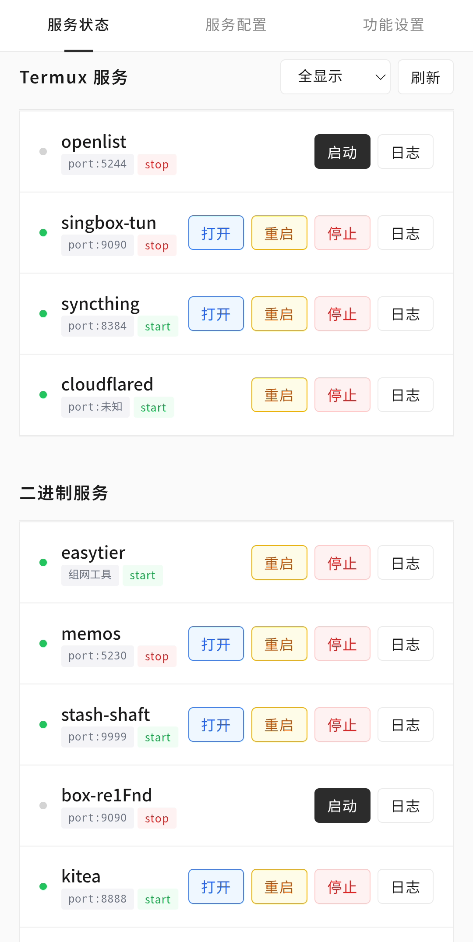
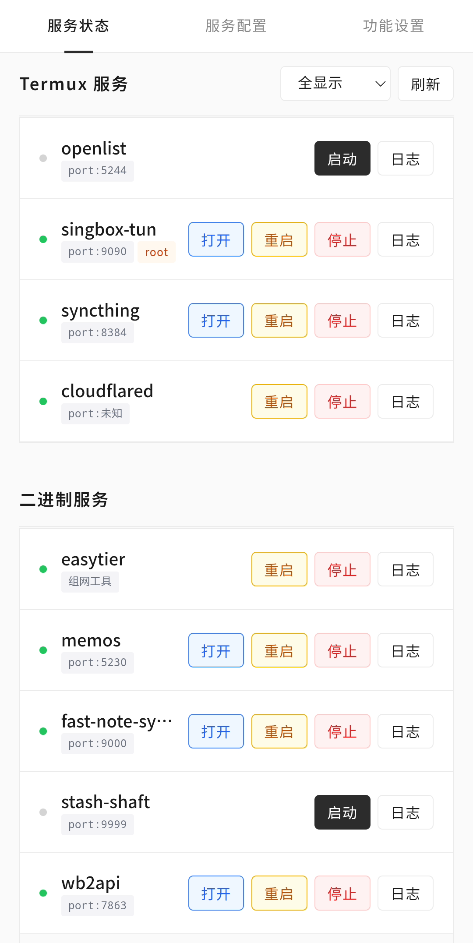
docs: 更新文档

diff --git a/README.md b/README.md
@@ -1,5 +1,6 @@
 <div align="center">
-<img src="docs/images/icon.png" width="200"alt="Icon"/>
+<img src="docs/images/icon.png" width="150"alt="Icon"/>
+<h1>SvcHub</h1>
   <p>
     <b>一个 Termux / 二进制服务启动和保活的管理模块，支持WebUI 聚合管理</b>
   </p>
@@ -27,37 +28,36 @@
   </p>
 </div>
 
-## 功能概览
-> 初衷就是为了裸核运行一些服务，省的一个服务装一个模块，聚合管理服务
+## 界面概览
+> 初衷就是为了裸核运行一些服务，省的一个服务装一个模块，聚合管理服务，若你觉得好用，欢迎给仓库来个 Star ⭐~ 
 <div align="center">
 
 | 服务状态 | 服务配置 | 功能设置|
 |---------|---------|---------|
-| ![服务状态](docs/images/01-status.png) | ![服务配置](docs/images/02-services.png ) |![功能设置](docs/images/03-settings.png)|
-| 命令执行/启停服务 | 服务日志页 | 网页登录页|
-| ![命令执行/启停服务](docs/images/04-start_stop.png) | ![服务日志页](docs/images/05-log.png ) |![网页登录页](docs/images/06-login.png)|
+| ![服务状态](docs/images/01-status.png) | ![服务配置](docs/images/02-config.png ) |![功能设置](docs/images/03-settings.png)|
+| 启停功能 | 服务日志页 | 网页登录页|
+| ![启停功能](docs/images/04-start_stop.png) | ![服务日志页](docs/images/05-log.png ) |![网页登录页](docs/images/06-login.png)|
 </div>
+
+## 快速开始
+
+1. [Releases](https://github.com/LimpidMo/SvcHub/releases/) 中下载模块 ZIP
+2. 在 Root 管理器中 → 模块 → 从本地安装，选择对应 ZIP 文件刷入
+3. 音量键可选是否挂载 dns 解析配置，默认不挂载
+4. 安装完成后重启设备，若升级时会自动保留已有配置。
+5. 在 KernelSU 或 Apatch 等管理器 → 模块 →  点击打开 SvcHub → 进入 WebUI。页面可左右滑动查看，
+> Magisk 用户无 Webui 开启外部访问（默认开启），访问 http://127.0.0.1:5555 默认密码 admin 即可
+
+## 功能介绍
 
 ### 两类服务
 
 | | Termux 服务 | 二进制服务 |
 |---|---|---|
 | 运行环境 |  Termux 环境 | 系统 root 环境 |
+| 运行身份 | Termux 用户，可单独开启「root 运行」 | root 用户 |
 | 工作目录 | `/data/data/com.termux/files/home` | 可配置，默认 `/data/media/0/Server` |
-| 附加参数 | 默认无，可设如 `-g 3003` 网络权限，`-u 10123` 指定用户运行仅对用户、权限敏感程序配置使用 | 同上 |
 >注：启动 Termux 中的服务不会启动 Termux 后台，无需自启动软件挂后台
-
-
-### 巡检保活
-
-每隔固定间隔，默认 60 秒执行一次巡检（可配置 10~86400 秒，高于60则分片休眠，以保证配置热更新和功能检查）：
-- 开机后自动启动带有 start 绿色标签的服务，即开启“自动启动 & 保活”的服务
-- 每次巡检检查 start 标签的服务，
-  - 如未启动或已被系统杀死则重新启动服务，
-  - 不会杀死已启动的 stop 标签服务，以便满足临时手动启动服务后被误杀
-- 更改检查间隔时间后，一分钟内生效，并打断原有间隔，即时生效新间隔。
-- 若服务日志超过 1MB 轮转保留最近1/4，保持近期日志上下文的同时避免日志无限增长
-- 若启停功能开启，执行启停功能检查
 
 ### 启停功能
 >**优先级**：功能全开时（但不推荐），定时启停> 亮屏启停> Wi-Fi 启停>普通巡检
@@ -73,14 +73,22 @@
 
 >注：本模块不做 WakeLock 唤醒锁，应设备而异可能应锁屏 Doze 策略，导致推迟至亮屏才响应该功能恢复巡检，但这一般影响日常使用体验
 
-## WebUI 使用
+### 巡检保活
 
-在 KernelSU 或 Apatch 等管理器 → 模块 →  点击打开 SvcHub → 进入 WebUI。页面可左右滑动查看，
->Magisk 用户无Webui 开启外部访问（默认开启），访问 http://127.0.0.1:5555 默认密码 admin 即可
+每隔固定间隔，默认 60 秒执行一次巡检（可配置 10~86400 秒，高于60则分片休眠，以保证配置热更新和功能检查）：
+- 开机后自动启动带有 start 绿色标签的服务，即开启“自动启动 & 保活”的服务
+- 每次巡检检查 start 标签的服务，
+  - 如未启动或已被系统杀死则重新启动服务，
+  - 不会杀死已启动的 stop 标签服务，以便满足临时手动启动服务后被误杀
+- 更改检查间隔时间后，一分钟内生效，并打断原有间隔，即时生效新间隔。
+- 若服务日志超过 1MB 轮转保留最近1/4，保持近期日志上下文的同时避免日志无限增长
+- 若启停功能开启，执行启停功能检查
+
 
 ## 服务配置示例
 
 ### Termux 服务配置
+
 以 OpenList 为例，Termux 服务默认工作目录 `/data/data/com.termux/files/home`：
 - 方案1：**在 Termux 怎么启动就怎么填**
   - openlist 则直接填写`openlist server`，跟在 termux 中启动 openlist 相同,
@@ -90,8 +98,8 @@
 - 端口填写 5244 ,启动后即可打开所对应服务页。
 - 若是首次启动 openlist 记得去日志中查看登录密码 passowrd 字段
 
-
 ### 二进制服务配置
+
 以 [Memos](https://github.com/usememos/memos) 为例，二进制服务默认工作目录 `/data/media/0/Server`，即外部存储目录 `/storage/emulated/0/Server`：
 - 在`Server` 文件夹加下创建个`memos`文件夹，将下载的`memos_0.xx.0_linux_arm64.tar.gz`解压获得可执行的`memos`放入该文件夹内
 - 相关二进制文件已设置可执行权限（`chmod +x ./memos`）即将文件设权限为`755`，本模块不提供对二进制文件权限修改，请自行处理。并将依赖的库文件和相关资源文件与二进制放在同一目录
@@ -99,7 +107,6 @@
 - memos 启动后默认端口 8081 ，也可以加`--port 5230`指定端口 5230 ，其他参数请看官方文档。将8081填入端口输入框中即可在服务页打开跳转
 
 ## 本地开发与模块构建
-
 
 ### 本地开发联调
 
@@ -116,7 +123,7 @@ node tools/mock-server.js reflash  # 改脚本后热更新文件
   - 冷启动可带参数： `node tools/mock-server.js --wifi on --ssid Home`
 - 亮屏锁屏模拟：`curl "http://127.0.0.1:8090/__screen?screen=off&lock=lock"` 
   - 其参数还可为`screen=on&lock=lock`亮屏未解锁或`screen=on&lock=unlock` 亮屏已解锁
-- shell命令依赖 Git Bash（mock-server 自动探测安装路径，尽量配置系统环境变量）
+- shell 命令依赖 Git Bash（mock-server 自动探测安装路径，尽量配置系统环境变量）
 
 ### 模块构建
 
@@ -129,17 +136,14 @@ python tools/pack.py --tag dev  # 打测试包 → dist/SvcHub_v<version>_dev.zi
 - 版本号读 `module.prop` 的 `version` 字段
 - 新增模块文件需同步补 `tools/pack.py` 的 `REQUIRED_FILES` 清单
 
-## 安装
-
-1. [Releases](https://github.com/LimpidMo/SvcHub/releases/) 中下载模块 ZIP
-2. 在 Root 管理器中 → 模块 → 从本地安装，选择对应 ZIP 文件刷入
-3. 安装完成后重启设备，若升级时会自动保留已有配置。
 
 ## 注意事项
 
-- 【请自行确认服务以及命令的的安全性，再到放到模块中应用和执行。自行对操作和处理负责】
-- Termux 服务依赖已安装的 Termux 应用，下载对应的包，如 openlist 使用 `pkg update & pkg install -y openlist`，
-  - 更新服务：在 Termux 使用 `pkg update & pkg upgrade -y` 更新全部或 `pkg update & pkg install -y 服务名1,服务名2` 更新单个或多个。
+- 【请自行确认服务以及命令的的安全性，再到放到模块中应用和执行。自行对操作和处理结果负责】
+- Termux 服务依赖已安装的 Termux 应用，下载对应的包：
+  - 如 openlist 使用 `pkg update && pkg install -y openlist`
+  - 更新服务：在 Termux 使用 `pkg update && pkg upgrade -y` 更新全部或 `pkg update && pkg install -y 服务名1,服务名2` 更新单个或多个
+- 二进制服务自行从可信渠道下载使用，如：GitHub
 - 所有脚本为 POSIX sh，兼容 Android `/system/bin/sh`
 - 玩机有风险，请自行备份数据，防止数据丢失。代码全公开请自行检阅后按需刷入。
 

diff --git a/CHANGELOG.md b/CHANGELOG.md
@@ -4,6 +4,24 @@
 
 ## [Unreleased]
 
+## [1.3.6] - 2026-10-14
+
+### Added
+
+- 新增 Termux 服务「root 运行」开关：默认以 Termux 用户运行
+  - 开启后以 root 运行，工作目录与环境变量不变。
+
+### Changed
+
+- Termux 服务改为完整降权至 Termux 用户身份运行（用户与组）。
+  - 若启动时因文件属组问题无法启动使用`chown -R $(stat -c %u /data/data/com.termux):$(stat -c %g /data/data/com.termux) <服务目录>` 命令后启动，或以 root 身份运行
+- 移除服务「附加参数」设置项及界面展示；已填写的参数将失效且不保留，如有依赖请改用启动命令处理。
+- 服务状态页移除 start/stop 标签，配置页保留，保持首页简洁。
+
+### Fixed
+
+- 修复关闭「巡检保活」后重启手机不自动启动服务的问题：
+
 ## [1.3.5] - 2026-10-11
 
 ### Fixed 
